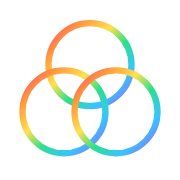
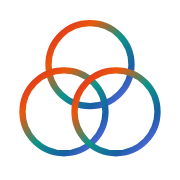
下部見切れ対策・5つの力カード拡大・アイコンを力カラーのレインボーに
- ボトムナビ：左右のセーフエリアinset対応＋下部paddingの底上げ（rounded端末/
  ホームバーでの見切れ防止）。コンテンツ下部余白もsafe-area込みに。
- ホームの「5つの力」カードを大型化（アイコン48px/見出し17px/STEPバッジ拡大/
  カラー枠/min-h-128）でステップを目立たせた。
- アプリアイコンの3円リングを「5つの力カラー（別解→実現→失敗→成長→発見）」の
  レインボーに変更。PNG(192/512/180)再生成。

Changed region(s): [[0.0833, 0.1111, 0.9167, 0.8889]]

diff --git a/src/components/HomeScreen.tsx b/src/components/HomeScreen.tsx
@@ -106,42 +106,43 @@ export function HomeScreen({ onNavigate }: HomeScreenProps) {
       </button>
 
       {/* 5つの力 */}
-      <p className="mx-4 mt-5 mb-2 text-[12px] font-medium text-text-secondary">5つの力</p>
-      <div className="mx-4 grid grid-cols-2 gap-2.5">
+      <p className="mx-4 mt-5 mb-2.5 text-[13px] font-semibold text-text-secondary">5つの力</p>
+      <div className="mx-4 grid grid-cols-2 gap-3">
         {forces.map((f) => (
           <button
             key={f.key}
             onClick={() => onNavigate(f.key)}
-            className="text-left border border-border-card rounded-xl p-3 hover:bg-surface-secondary transition-colors active:scale-[0.98]"
+            className="text-left border border-border-card rounded-2xl p-4 min-h-[128px] flex flex-col hover:bg-surface-secondary transition-colors active:scale-[0.98]"
+            style={{ borderColor: `${f.color}33` }}
           >
             <div className="flex items-center justify-between">
-              <span className="w-9 h-9 rounded-lg flex items-center justify-center" style={{ background: `${f.color}1A` }}>
-                <f.Icon size={18} style={{ color: f.color }} />
+              <span className="w-12 h-12 rounded-xl flex items-center justify-center" style={{ background: `${f.color}1A` }}>
+                <f.Icon size={24} style={{ color: f.color }} />
               </span>
-              <span className="text-[8px] font-semibold px-1.5 py-0.5 rounded-full" style={{ background: `${f.color}14`, color: f.color }}>{f.badge}</span>
+              <span className="text-[10px] font-bold px-2 py-0.5 rounded-full" style={{ background: `${f.color}14`, color: f.color }}>{f.badge}</span>
             </div>
-            <div className="flex items-baseline gap-1.5 mt-2">
-              <p className="text-[13px] font-semibold" style={{ color: f.color }}>{f.label}</p>
-              {f.count > 0 && <span className="text-[10px] text-text-tertiary">{f.count}件</span>}
+            <div className="flex items-baseline gap-2 mt-3">
+              <p className="text-[17px] font-bold" style={{ color: f.color }}>{f.label}</p>
+              {f.count > 0 && <span className="text-[11px] text-text-tertiary">{f.count}件</span>}
             </div>
-            <p className="text-[10px] text-text-tertiary leading-tight mt-0.5">{f.sub}</p>
+            <p className="text-[11px] text-text-tertiary leading-snug mt-0.5">{f.sub}</p>
           </button>
         ))}
 
         {/* 成長の可視化（ダッシュボード）カード */}
         <button
           onClick={() => onNavigate('dashboard')}
-          className="text-left border border-border-card rounded-xl p-3 hover:bg-surface-secondary transition-colors active:scale-[0.98] flex flex-col justify-between"
+          className="text-left border border-border-card rounded-2xl p-4 min-h-[128px] hover:bg-surface-secondary transition-colors active:scale-[0.98] flex flex-col justify-between"
         >
           <div className="flex items-center justify-between">
-            <span className="w-9 h-9 rounded-lg flex items-center justify-center bg-primary-bg">
-              <LineChart size={18} className="text-primary" />
+            <span className="w-12 h-12 rounded-xl flex items-center justify-center bg-primary-bg">
+              <LineChart size={24} className="text-primary" />
             </span>
-            <ChevronRight size={16} className="text-text-tertiary" />
+            <ChevronRight size={18} className="text-text-tertiary" />
           </div>
           <div>
-            <p className="text-[13px] font-semibold mt-2 text-primary">成長の可視化</p>
-            <p className="text-[10px] text-text-tertiary leading-tight mt-0.5">サマリー・週次レポート</p>
+            <p className="text-[17px] font-bold mt-3 text-primary">成長の可視化</p>
+            <p className="text-[11px] text-text-tertiary leading-snug mt-0.5">サマリー・週次レポート</p>
           </div>
         </button>
       </div>

diff --git a/src/components/BottomNav.tsx b/src/components/BottomNav.tsx
@@ -24,9 +24,13 @@ export function BottomNav({ activeTab, onTabChange }: BottomNavProps) {
   return (
     <nav
       className="fixed bottom-0 left-0 right-0 z-30 border-t border-border-card bg-surface shadow-[0_-1px_10px_rgba(0,0,0,0.05)]"
-      style={{ paddingBottom: 'max(env(safe-area-inset-bottom), 10px)' }}
+      style={{
+        paddingBottom: 'max(env(safe-area-inset-bottom), 12px)',
+        paddingLeft: 'env(safe-area-inset-left)',
+        paddingRight: 'env(safe-area-inset-right)',
+      }}
     >
-      <div className="flex items-stretch max-w-[480px] mx-auto px-2 pt-2 pb-1">
+      <div className="flex items-stretch max-w-[480px] mx-auto px-3 pt-2 pb-1.5">
         {FORCES.map(({ key, label, Icon, color }) => {
           const on = activeTab === key
           return (

diff --git a/src/App.tsx b/src/App.tsx
@@ -104,7 +104,7 @@ function App() {
       {!NON_GUIDE.includes(activeTab) && <FeatureGuide feature={activeTab as GuideFeature} open={guideOpen} onClose={closeGuide} />}
       <OnboardingModal open={onboardingOpen} onClose={() => setOnboardingOpen(false)} />
 
-      <main className="pb-28">
+      <main style={{ paddingBottom: 'calc(env(safe-area-inset-bottom) + 108px)' }}>
       {activeTab === 'home' && <HomeScreen onNavigate={handleTabChange} />}
 
       {activeTab === 'about' && <AboutScreen onStart={() => handleTabChange('home')} onBack={() => handleTabChange('home')} />}
